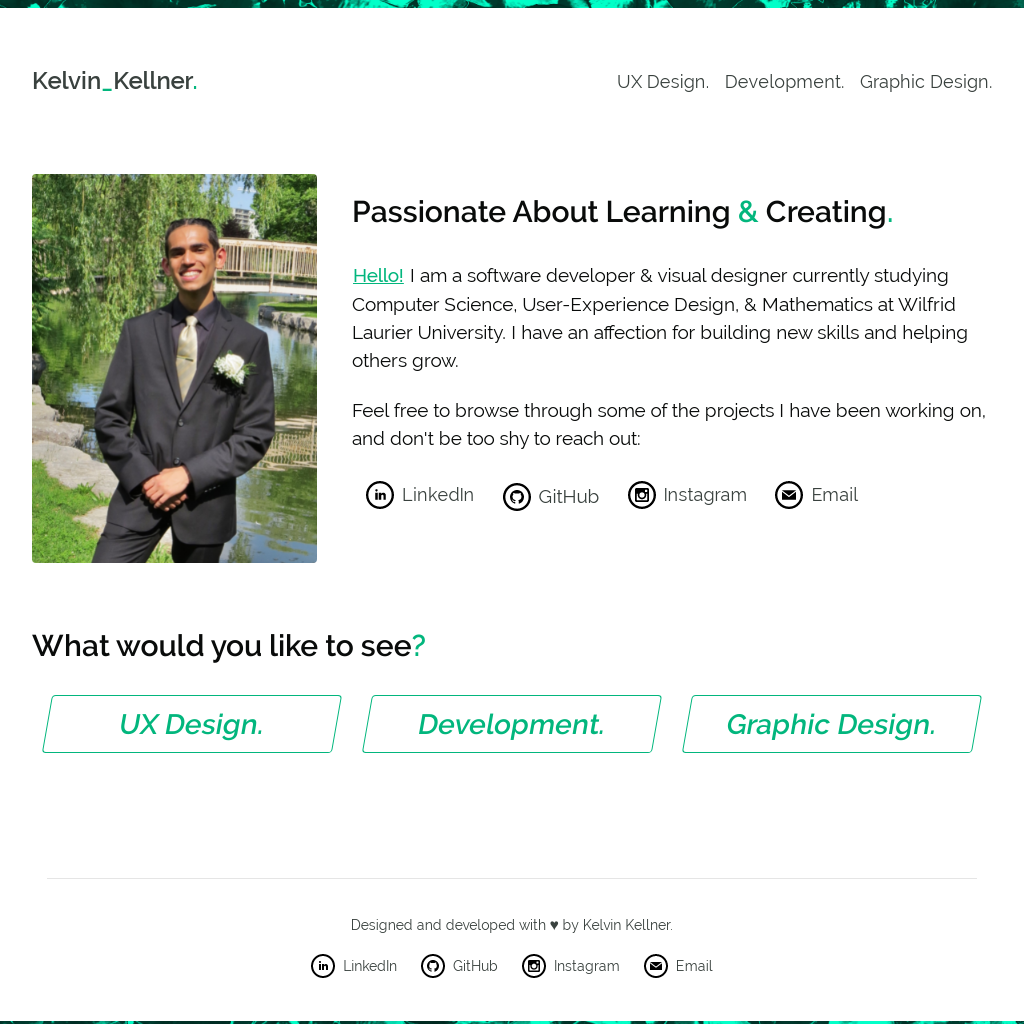
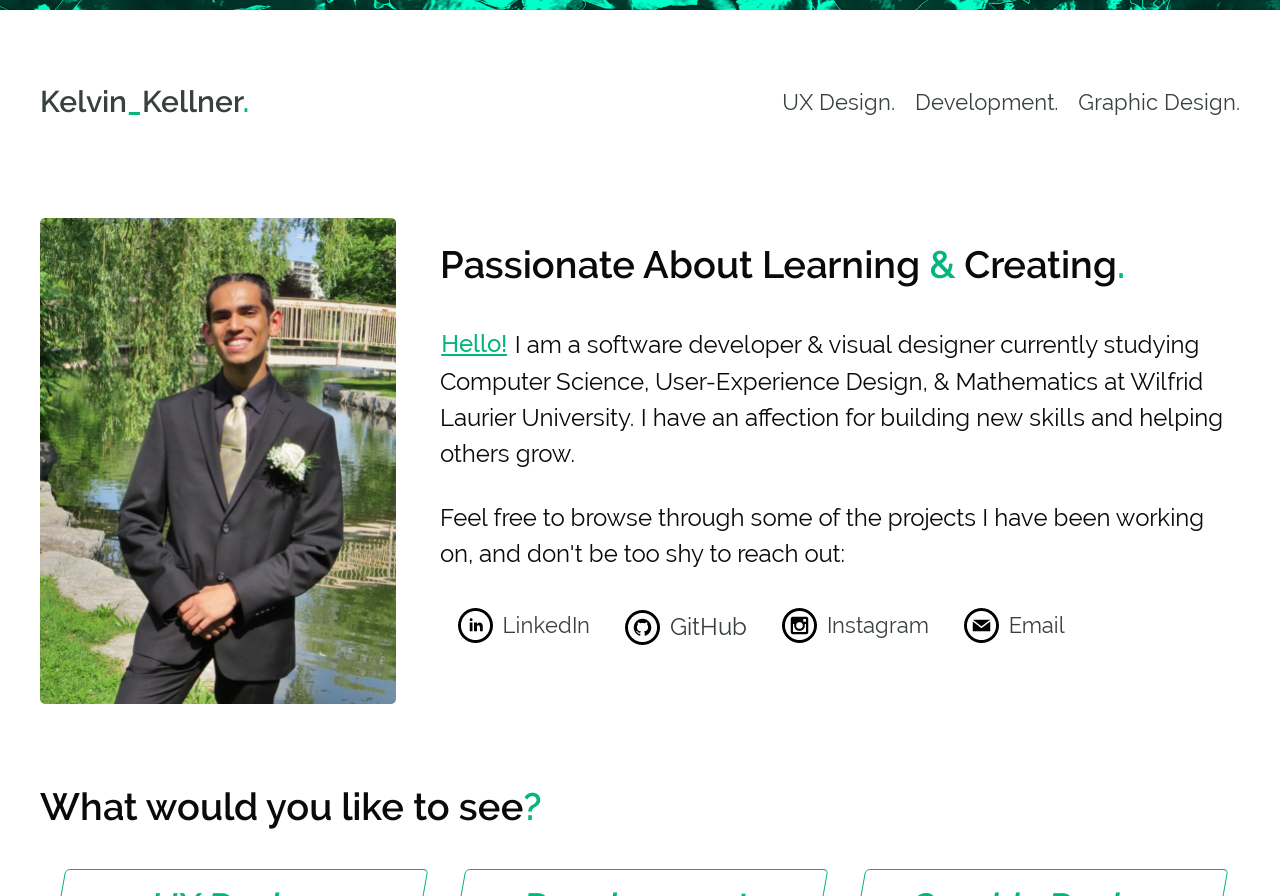
Update social sharing image preview

diff --git a/public/index.html b/public/index.html
@@ -12,8 +12,8 @@
     <!-- Social Sharing -->
     <meta property="og:image" content="%PUBLIC_URL%/screenshot.png">
     <meta property="og:image:type" content="image/png">
-    <meta property="og:image:width" content="1024">
-    <meta property="og:image:height" content="1024">
+    <meta property="og:image:width" content="1280">
+    <meta property="og:image:height" content="896">
     <meta property="og:type" content="website" />
     <meta property="og:url"content="https://www.kelvinkellner.com/" />
     <meta property="og:title" content="Portfolio" />
